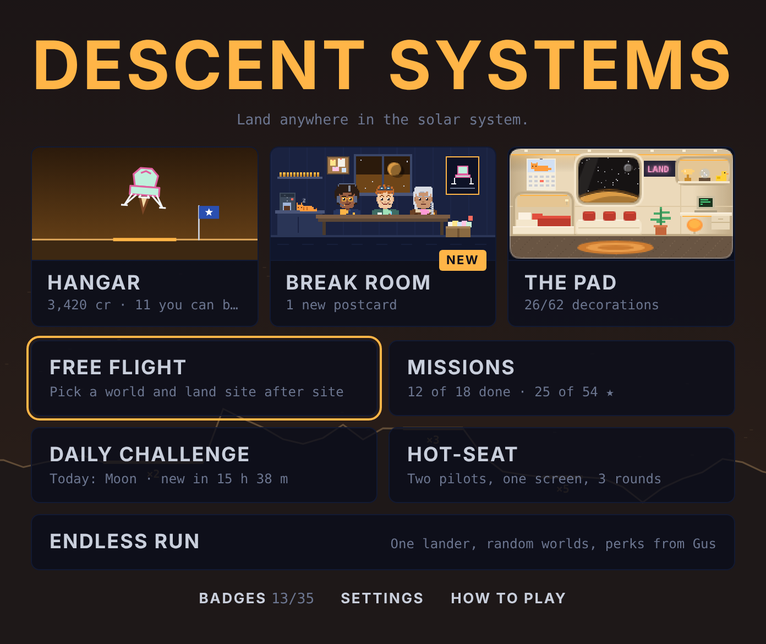
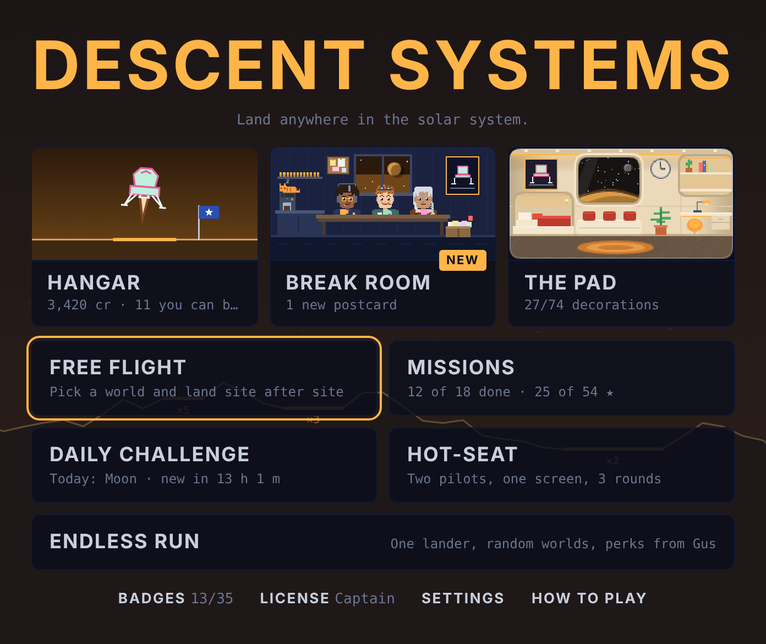
updated readme

diff --git a/README.md b/README.md
@@ -62,9 +62,22 @@ The main menu opens on three big cards with live previews:
 
 Below them are the game modes: **Free flight**, **Missions**, **Daily challenge**, **Hot-seat** and **Endless run**. At the bottom are links to **Badges**, your **pilot license**, **Settings** and **How to play**, which replays the tutorial.
 
-<p align="center"><img src="media/home.png" alt="The main menu: big Hangar, Break room and Pad cards with live previews above the game modes" width="560"></p>
+<p align="center"><img src="media/home.png" alt="The main menu: big Hangar, Break room and Pad cards with live previews above the game modes, with Badges, License, Settings and How to play links along the bottom" width="560"></p>
 
-New players are offered the **tutorial** first. It holds the lander in place while you learn to fire the engine and tilt, then switches gravity on and walks you through your first landing.
+### First launch
+
+Brand-new players get a short guided start, about two to three minutes, instead of being dropped onto the menu:
+
+1. **Welcome aboard.** Dottie comes on the radio, and six quick illustrated cards introduce Descent Systems: the supply-closet head office, Biscuit (Gus would like you not to scratch her), the bake sale that paid for her, and Apogee, who technically outranks you.
+2. **Your pilot license.** Type your name and pick your look, then Dottie stamps it **LICENSED · CADET**.
+3. **The certification flight.** This is the tutorial. It holds the lander in place while you learn to fire the engine and tilt, then switches gravity on and walks you through your first landing, with a nervous Gus on the radio.
+4. **Meet the crew.** A short guided tour of the break room: the crew, the bulletin board, your first postcard, Gus's maintenance log and Apogee.
+5. **Your Pad.** Gus brings a housewarming gift (pick a lander poster, a fern or a rug) and shows you how decorating works, while Apogee claims your bunk.
+6. Back on the main menu, **Missions** is marked **Start here**.
+
+<p align="center"><img src="media/intro.png" alt="The first-launch intro: a pixel-art Biscuit parked on a pad under the stars, with Gus on the radio saying she's their only lander and asking you, please, not to scratch her" width="480"></p>
+
+Every step has a **Skip** button. Players with an existing save never see the intro, and anyone can watch it again from **Settings → Replay intro**. Players who skip it can still start the tutorial from the main menu.
 
 **Settings** has switches for full 360° rotation, auto-zoom, story scenes, ghosts, sound and music, plus a list of the controls.
 
@@ -151,7 +164,7 @@ Upgrades apply in free flight and missions. They're always off in the daily chal
 
 Badge rewards (Grand Tour, Champion, Pathfinder, Spa Day, Wren's Original and more) appear in the hangar once you earn them.
 
-<p align="center"><img src="media/hangar.png" alt="The hangar: Biscuit hovering over the pad in a garage with Gus at his workbench, a Your look panel totaling the cost, and a tabbed grid of engine flames" width="640"></p>
+<p align="center"><img src="media/hangar.png" alt="The hangar: the five landers (Biscuit, Apex Vector, Lark, Workhorse and Whisker) in a row at the top, Biscuit hovering over the pad in the garage with Gus at his workbench, a Your look panel, and a tabbed grid of hull paints" width="560"></p>
 
 ## Missions
 
@@ -396,6 +409,8 @@ After any free-flight landing, press **Challenge a friend**. On iPhone that open
 
 When your friend opens the link, the game greets them with "**Ace challenged you**", showing which world and site you flew and the score to beat. They fly the exact same terrain from the exact same start, wind and rovers included, with your ghost flying beside them in pink. At the end, a scorecard shows who won. They can race again as many times as they like, watch the replay, or press **Send your ghost back** to challenge you on the same site with their own run.
 
+<p align="center"><img src="media/ghost-race.png" alt="A ghost race on Mars: the challenger's see-through pink ghost, labeled ACE, flying ahead of your lander toward the pads" width="640"></p>
+
 No server or account is involved. Each free-flight site is built from a random seed, so the link only carries the world, the site number, the seed, your score and your flight path, sampled 15 times a second, delta-encoded and compressed. A typical link is a few hundred characters long. Links always open the game on GitHub Pages.
 
 ## Hot-seat mode
@@ -463,7 +478,7 @@ localStorage.setItem('ds-credits', 5000)
 
 `manifest.webmanifest`, `sw.js` and the `icon-*.png` / `apple-touch-icon.png` files make the game installable and offline-capable. `sw.js` has a `VERSION` you only need to change if you rename or remove those files.
 
-The `media/` folder holds the images used in this README (`landing.gif`, `crew.png`, `story.png`, `home.png`, `missions.png`, `side-missions.png`, `hangar.png`, `badges.png`, `break-room.png`, `pad.png`, `arcade.png`, `license.png`, `bulletin-board.png`, `postcards.png` and `maintenance-log.png`) plus `social-preview.png`, the picture GitHub shows when someone shares the repo link (set it under **Settings → General → Social preview**).
+The `media/` folder holds the images used in this README (`landing.gif`, `crew.png`, `story.png`, `home.png`, `missions.png`, `side-missions.png`, `hangar.png`, `badges.png`, `break-room.png`, `pad.png`, `arcade.png`, `license.png`, `intro.png`, `ghost-race.png`, `bulletin-board.png`, `postcards.png` and `maintenance-log.png`) plus `social-preview.png`, the picture GitHub shows when someone shares the repo link (set it under **Settings → General → Social preview**).
 
 `og-image.png` is the share preview: the picture chat apps and social sites show when someone pastes the game's link. The tags that point to it are at the top of `index.html`.
 
